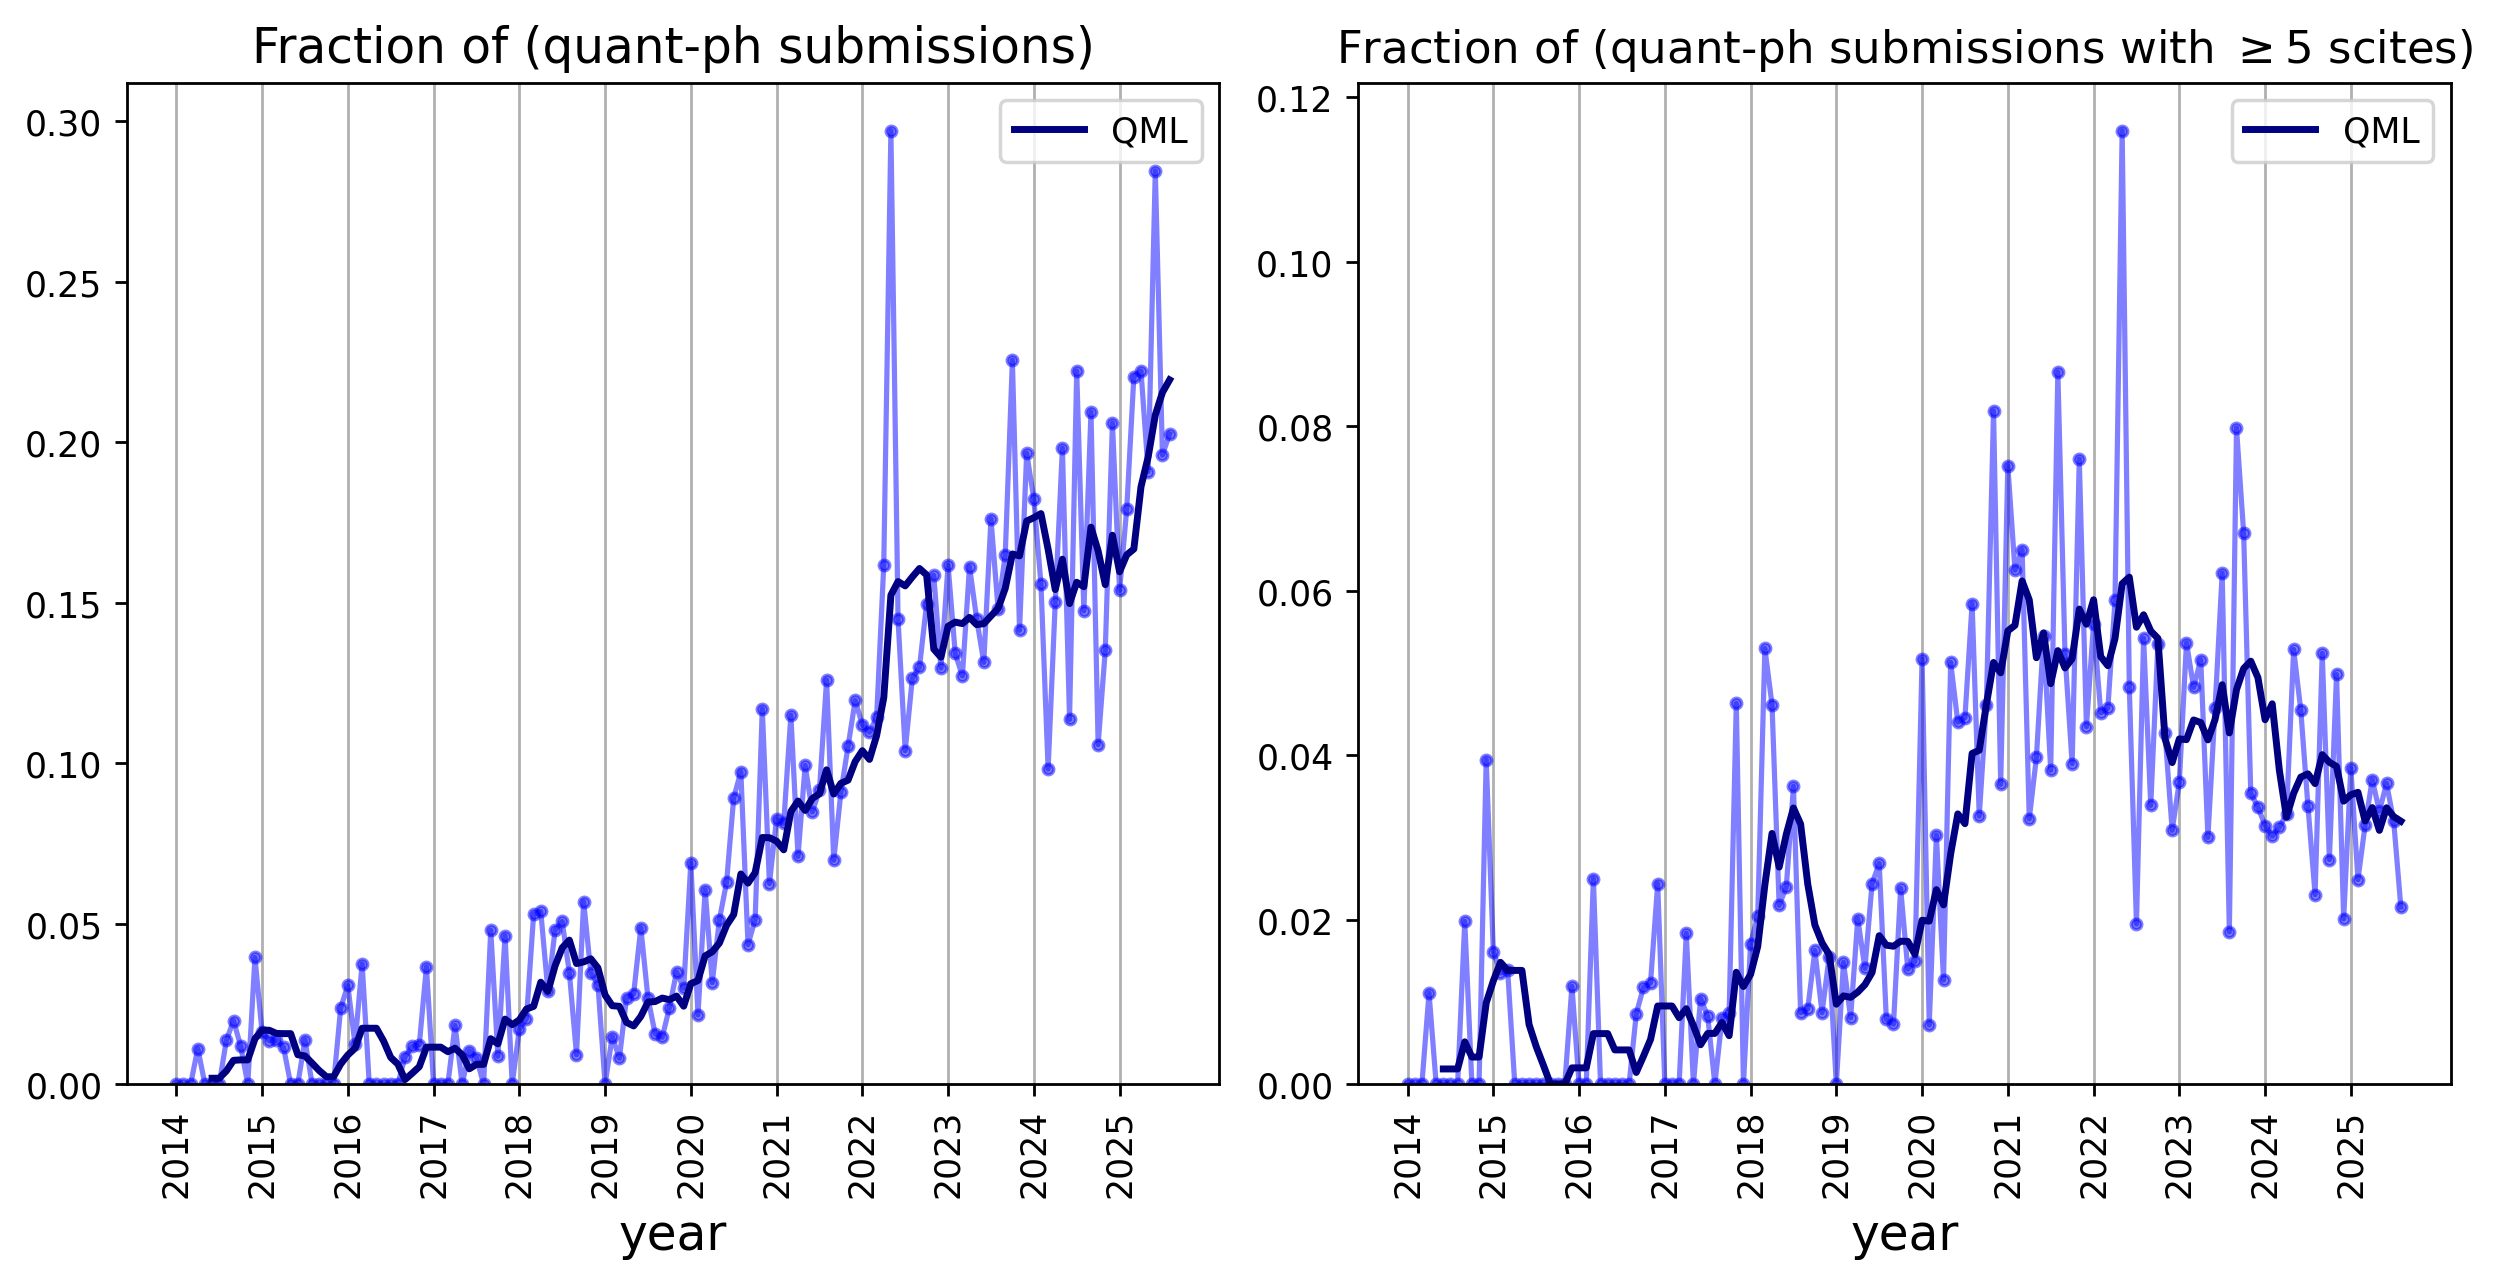
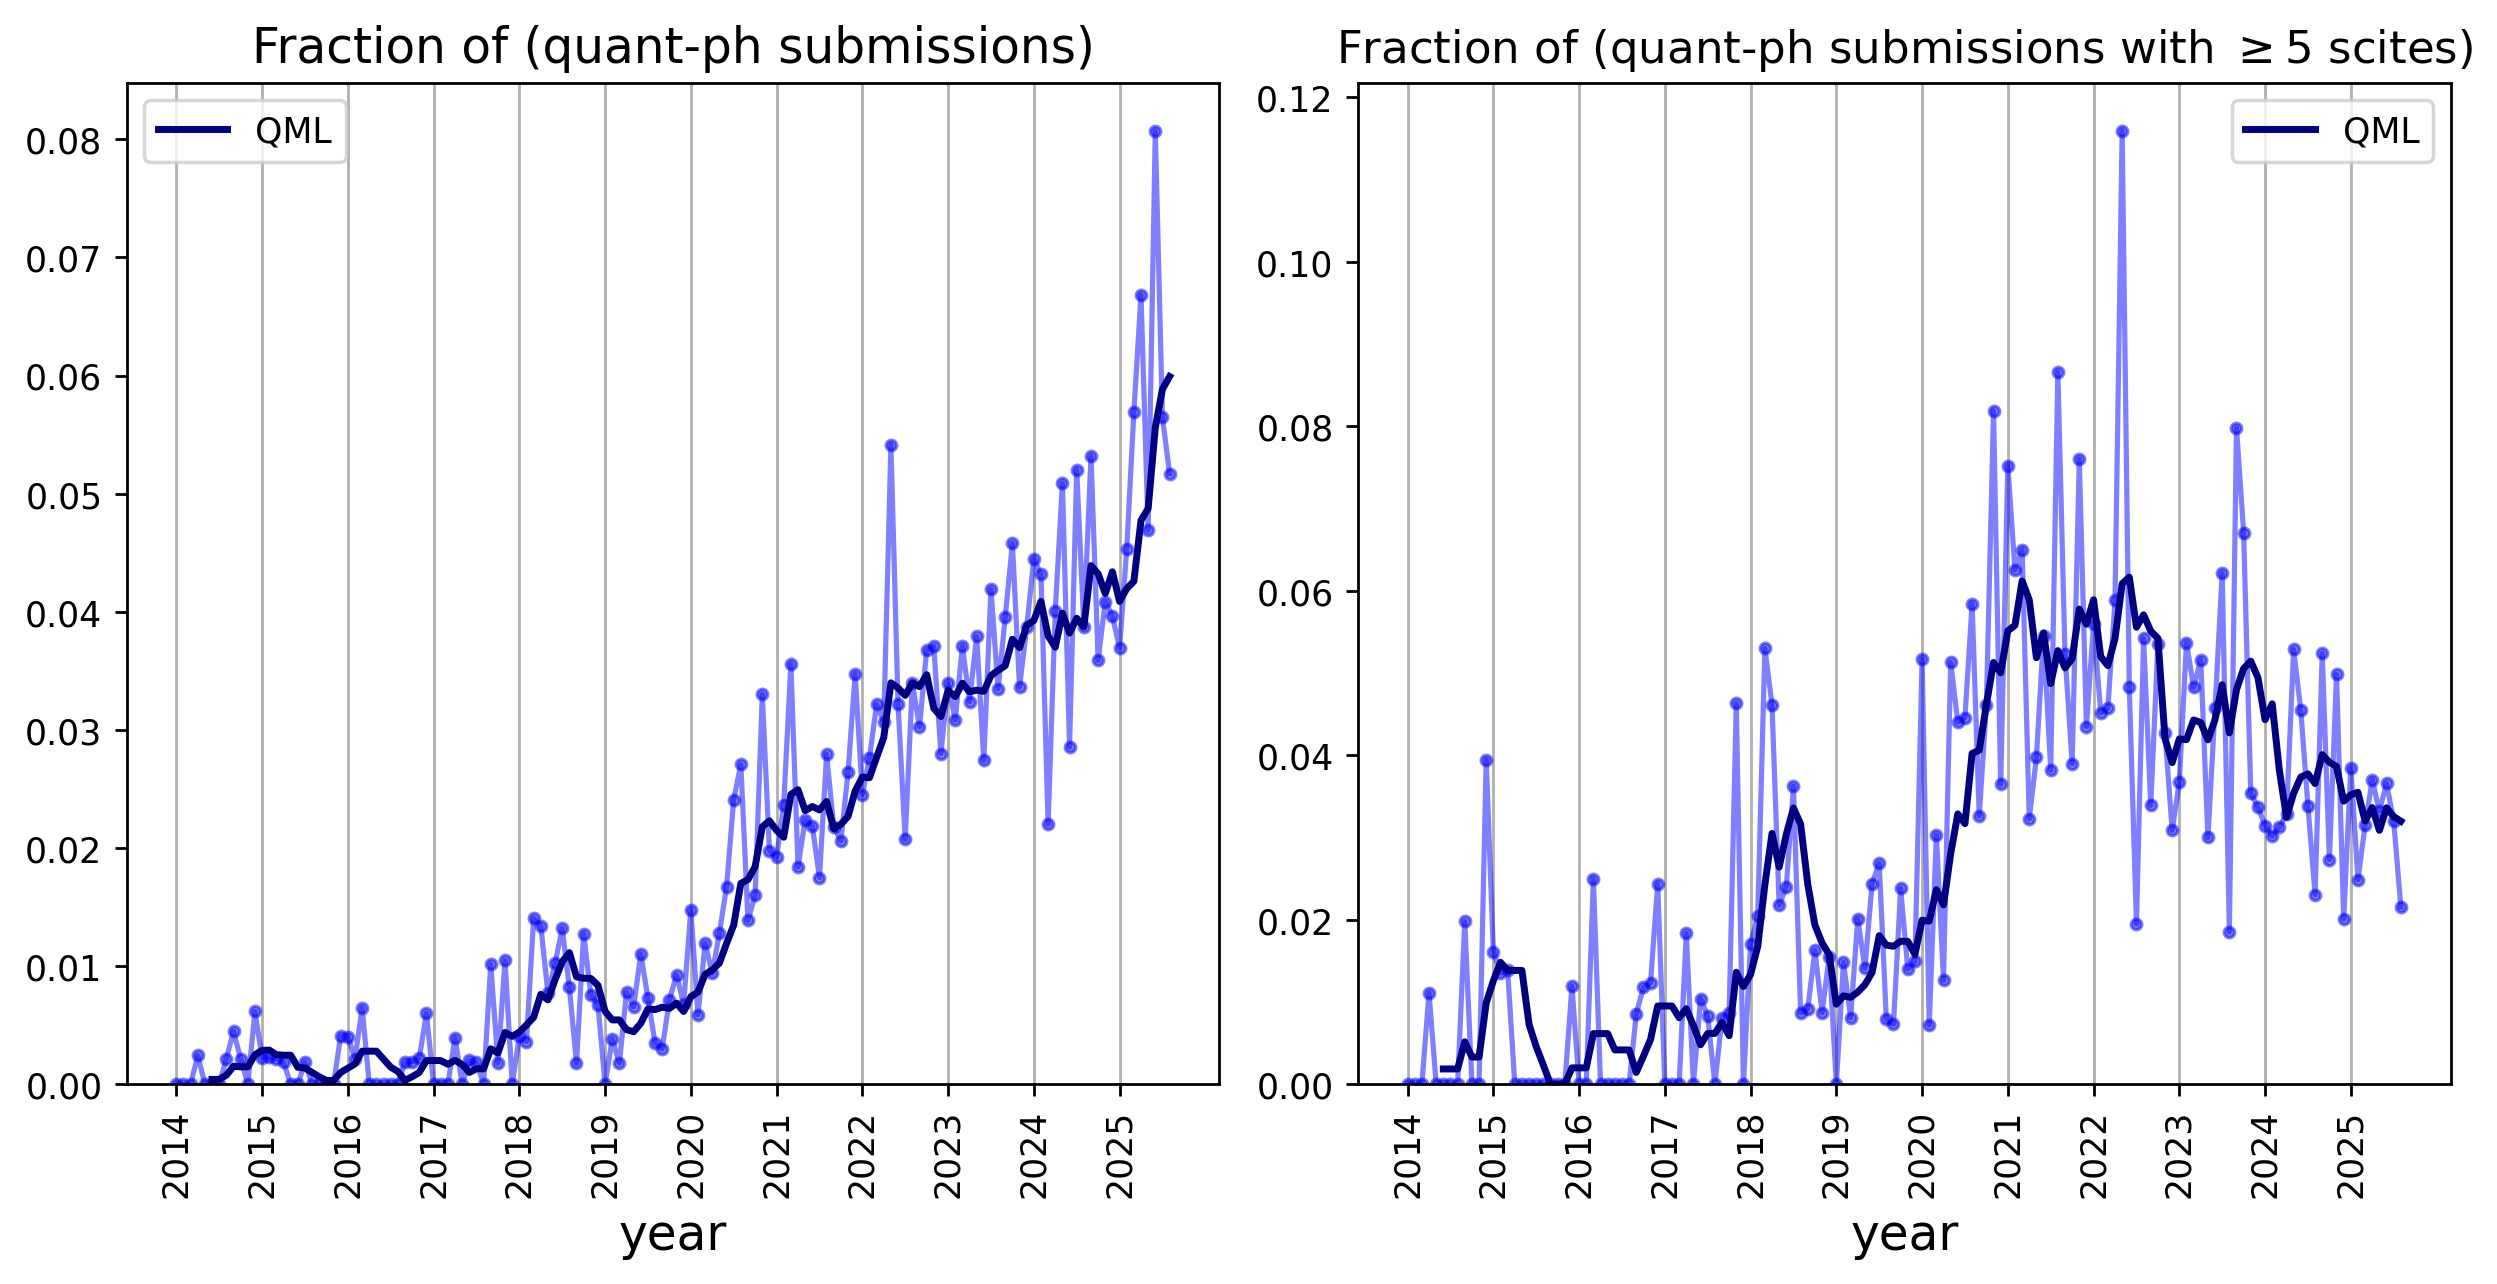
fix qml plot

diff --git a/docs/_posts/2025-09-06-QEC-eats-QCSE.md b/docs/_posts/2025-09-06-QEC-eats-QCSE.md
@@ -14,7 +14,7 @@ Quantum Computing Stack Exchange ([QCSE](https://quantumcomputing.stackexchange.
 
 If we categorize questions according to their tag (indicates what the question topic is), we find a steep increase in QEC-related tags (left). But this hides a [huge drop](https://quantumcomputing.meta.stackexchange.com/questions/669/why-the-lull-in-traffic-is-it-network-wide) in the total number of user questions (right):
 
-![QEC question fractions](/assets/2025-09-06/qcse_fractions.png)
+<img src="/assets/2025-09-06/qcse_fractions.png" alt="QEC question fractions" style="width: 80%; max-width: 600px;">
 *The average fraction of questions with a QEC-related is approaching 50% (shading reflects the confidence interval assuming a Binomial distribution, just to give an impression of variance). Total QCSE usage has been trending downward in the last 12 months, but there's still a steady stream of QEC interest.*
 
 The drop in questions coincides with the `o1` GPT model being released. This makes sense: Reasoning models are usually good at answering basic questions, and even more so when there is a lot of relevant source material available on the internet. But (right now), out-of-the-box AI chatbots are weak at coding tasks involving newer packages (e.g. there's few code examples to scrape from stackoverflow). So the tag for `stim` (a popular but recent python package for QEC research) continues to go strong.
@@ -25,31 +25,38 @@ This is at least _consistent_ with a trend in research interest towards QEC, but
 
 If we categorize every `quant-ph` arXiv submission according to keywords appearing in its abstract+title[^1], we can get a _rough idea_ of trends in manuscript topics. After assembling a reasonable set of keywords (see Methods) for QEC-related submissions, and also preparing a set of keywords for "noisy intermediate scale quantum" (NISQ), we see this trend:
 
-![QEC question fractions](/assets/2025-09-06/qec_nisq.png)
+<img src="/assets/2025-09-06/qec_nisq.png" alt="NISQ vs. QEC" style="width: 80%; max-width: 600px;">
 *The fraction of quant-ph arXiv submissions mentioning quantum error correction (and related topics) is trending upwards, while mentions of NISQ have flattened out.*
 
-So, publication activity in the area of QEC and fault tolerance is blowing up super-exponentially (a sharp increase in the _fraction_ of an already exponentially growing number of `quant-ph`). Meanwhile, NISQ has lost a bit of steam (now what are we supposed to do with all these noisy uncorrected qubits?). Its great to be forward-looking, but the fantastic growth rate of research in QEC leaves me wondering - what research comes after quantum error correction? For example, I strongly suspect that classical error correction makes up only a tiny fraction of computer science research today.
+So, publication activity in the area of QEC and fault tolerance is blowing up super-exponentially (as evidenced by a sharp increase in the _fraction_ of an already exponentially growing number of `quant-ph`). Meanwhile, NISQ has lost a bit of steam (now what are we supposed to do with all these noisy uncorrected qubits?). 
 
 While counting `quant-ph` submissions is a decent proxy for what researchers are interested in and spending time on, it doesn't tell us whether QEC is _cool_. 
 
 ### QEC eats Scirate?
 
-[Scirate]() is an ~~online popularity contest~~ online platform that lets people upvote and comment on arXiv submissions[^2]. It is used almost exclusively by the quantum computing research community. Usage of scirate is growing rapidly, as the number of `quant-ph` submissions balloons beyond what is easily skimmable in a daily email. I don't know what an upvote on Scirate means specifically[^3]. To match the social media theme of Scirate, we will say a paper is _cool_ if it gets attention on Scirate, and _uncool_ otherwise. We can see here that QEC-related make up a growing fraction of cool submissions[^4].
+[Scirate]() is an online ~~popularity contest~~ platform that lets people upvote and comment on arXiv submissions. It is used almost exclusively by the quantum computing research community. Usage of scirate is growing rapidly, as the number of `quant-ph` submissions balloons beyond what is easily skimmable in a daily email[^2]. I don't really know what an upvote on Scirate means[^3], but to match the social media theme of the site, we will say a paper is _cool_ if it gets a nontrivial number of upvotes on Scirate, and _uncool_ otherwise[^4]. 
 
-![QEC scirate question fractions](/assets/2025-09-06/qec_scirate.png)
+<img src="/assets/2025-09-06/qec_scirate.png" alt="QEC scirate question fractions" style="width: 80%; max-width: 600px;">
 *Among papers that get attention (at least 5 upvotes) on Scirate, QEC represents a growing fraction. It is a cool subfield. In contrast, NISQ is becoming less-cool even as its overall publication rate holds steady.*
 
-### Bonus: is QML cool or uncool?
-
-Out of personal curiousity, I took a look at how QEC compares to another hot subfield, "quantum machine learning" (QML). Even with all the hype that QML has a (bad) reputation for, the growth rate for submissions in this subfield is actually slightly lower than QEC in the same time period! But, as is clear from Scirate, QML papers make up a shrinking fraction of the cool papers.
-
-![QML scirate question fractions](/assets/2025-09-06/qml.png)
-*The number of QML-related submissions is growing rapidly, but this topic is decidedly uncool as measured by Scirate voters.*
+Here, we can see here that QEC-related manuscripts make up a growing fraction of cool submissions[^5]. Furthermore, this analysis shows that NISQ publications are, in some sense, becoming less popular even as the number of publications holds steady. There is an interesting disconnect between what the median researcher is willing to publish, versus what the median scirate user is willing to upvote.
 
 
 ## Discussion
 
 The clear takeaway is that QEC's popularity is growing rapidly. In a way, this is both expected and healthy: we expect fault tolerance (FT) to be necessary for many of the promised speedups in quantum computing. NISQ was the idea that we could develop useful quantum algorithms before building an FTQC, but the revealed preferences of the quantum community cast doubt on that idea. We should perhaps keep an eye on this trend, since there will come a day when we have the FTQCs and now we need to run something on them.
+
+Its great to be forward-looking, but the fantastic growth rate of research in QEC leaves me wondering - what research comes after quantum error correction? For example, I strongly suspect that classical error correction makes up only a tiny fraction of computer science research today. Will QEC research go the same way as classical error correction?
+
+
+### Bonus: is QML cool or uncool?
+
+Out of personal curiousity, I took a look at how QEC compares to another hot subfield, "quantum machine learning" (QML). Even with all the hype that QML has a (bad) reputation for, the growth rate for submissions in this subfield is actually slightly lower than QEC in the same time period! But, as is clear from Scirate, QML papers make up a shrinking fraction of the cool papers, and again we see a disconnect between publishing activity and scirate popularity. 
+
+<img src="/assets/2025-09-06/qml.png" alt="QEC scirate question fractions" style="width: 100%; max-width: 600px;">
+*The number of QML-related submissions is growing rapidly, but this topic is decidedly uncool as measured by Scirate voters.*
+
+In contrast with NISQ, QML algorithms are often designed to run on FTQCs, so this is fall in popularity is rather damning. What would it take to make QML cool again?
 
 ### Methods
 
@@ -99,6 +106,7 @@ QML hits:
 	quantum machine learning: 1265
     barren plateau: 307
 ```
+
 I used [SEDE](https://data.stackexchange.com/) and ChatGPT for analyzing QCSE trends, the [arXiv Kaggle dataset](https://www.kaggle.com/datasets/Cornell-University/arxiv) for `quant-ph` trends, and the `scirate` API for Scirate trends. 
 
 #### Acknowledgments
@@ -108,6 +116,7 @@ I used the `scirate` API, so thanks to Vincent Russo.
 ---
 
 [^1]: The entire metadata for arXiv is available on Kaggle: [link](https://www.kaggle.com/datasets/Cornell-University/arxiv)
-[^2]: Early on there was some debate among people using Scirate, and to this day it is unclear to me what an upvote on scirate means. This is not a new issue: e.g. see the conversations [here](https://groups.google.com/g/scirate/c/WAHKx8TAUo8). My personal guess is that the median scientist has a reflexive-but-exagerrated belief in their own objectivity, and is therefore extra susceptible to social persuasion. But to be useful, any theory of what a scite means should be grounded in the behavioral patterns we can observe on Scirate. 
-[^3]: I mean this literally, in the sense that daily arXiv digest emails for `quant-ph` are now sometimes longer than the email length that gmail is willing to display by default, meaning that some submissions will not even appear in the email unless you [exploit arXiv's ordering system](https://peterse.github.io/2023/06/06/Early-bird-gets-the-worm.html).
-[^4]: Its actually really hard to do statistics on Scirate behavior, since upvotes are highly nonstationary (the  number of daily Scirate users grows over time) but also have very limited statistics (less than 50ish papers per day with large fluctuations). For example, comparing a submission's scites to the average number of scites requires computing a moving average with a window that is small enough to reflect a roughly-stationary process but large enough to be meaningful.
+[^2]: I mean this literally, in the sense that daily arXiv digest emails for `quant-ph` are now sometimes longer than the email length that gmail is willing to display by default, meaning that some submissions will not even appear in the email unless you [exploit arXiv's ordering system](https://peterse.github.io/2023/06/06/Early-bird-gets-the-worm.html).
+[^3]: Early on there was some debate among people using Scirate, and to this day it is unclear to me what an upvote on scirate means. This is not a new issue: e.g. see the conversations [here](https://groups.google.com/g/scirate/c/WAHKx8TAUo8). My personal guess is that the median scientist has a reflexive-but-exagerrated belief in their own objectivity, and is therefore extra susceptible to social persuasion. But to be useful, any theory of what a scite means should be grounded in the behavioral patterns we can observe on Scirate. 
+[^4]: This is tongue-in-cheek; please don't actually update your research tastes -- or any tastes really -- towards things that get ``likes'' on social media.
+[^5]: Its actually really hard to do statistics on Scirate behavior, since upvotes are highly nonstationary (the  number of daily Scirate users grows over time) but also have very limited statistics (less than 50ish papers per day with large fluctuations). For example, comparing a submission's scites to the average number of scites requires computing a moving average with a window that is small enough to reflect a roughly-stationary process but large enough to be meaningful.
